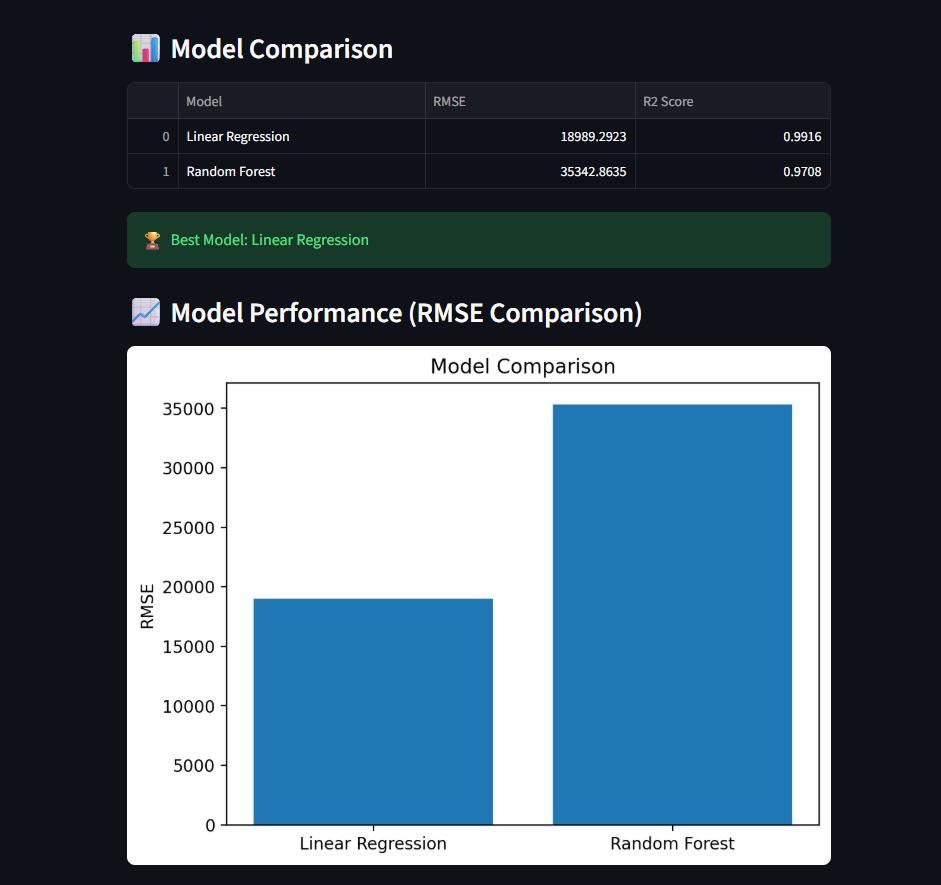
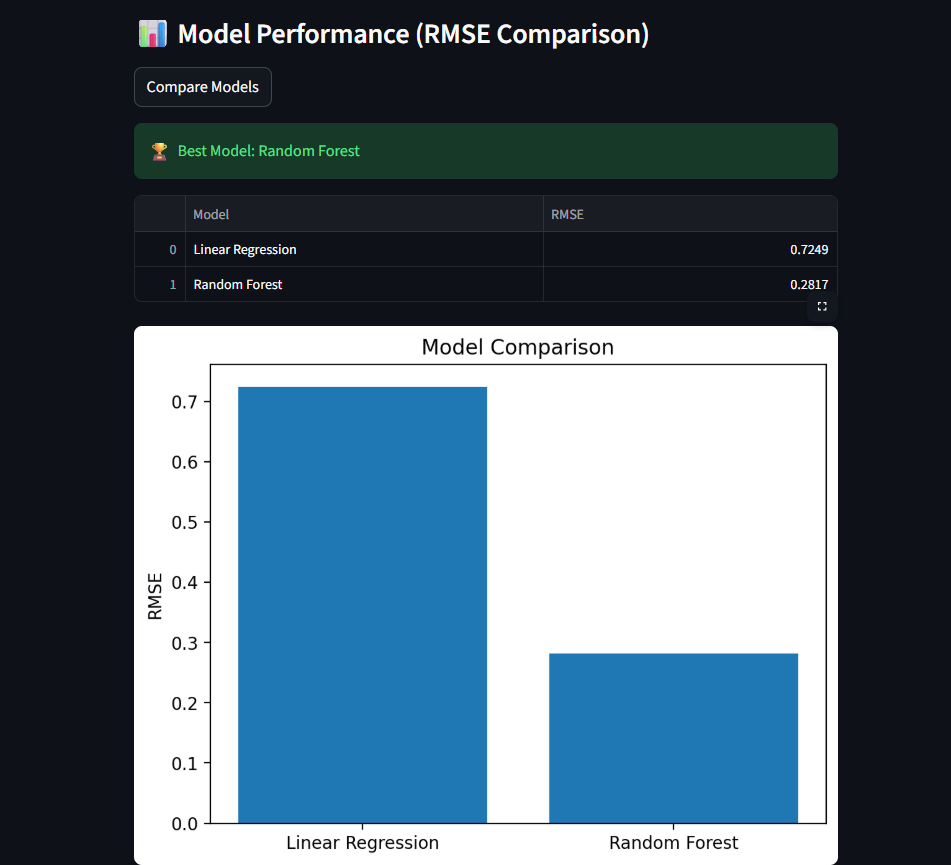
Final update: dataset, models, UI, README

diff --git a/README.md b/README.md
@@ -1,11 +1,9 @@
 # 🏠 House Price Prediction with Model Comparison
 
-## 📌 Overview
-This project predicts house prices using Machine Learning models and compares their performance.
-
-Initially, Linear Regression was used. Later, the project was upgraded by adding Random Forest and implementing a full comparison system with visualization.
+An interactive Machine Learning web application that predicts house prices and compares model performance using Linear Regression and Random Forest.
 
 ---
+
 
 ## 🚀 Features
 
@@ -34,6 +32,21 @@ Initially, Linear Regression was used. Later, the project was upgraded by adding
 - Uses multiple decision trees
 
 ---
+## 📊 Dataset
+
+* Based on a multi-feature housing dataset (California Housing style)
+* Contains features such as:
+
+  * Median Income (MedInc)
+  * House Age (HouseAge)
+  * Average Rooms (AveRooms)
+  * Average Bedrooms (AveBedrms)
+  * Population
+  * Average Occupancy (AveOccup)
+  * Latitude & Longitude
+* Target variable: **House Price**
+
+---
 
 ## 📊 Evaluation Metrics
 
@@ -45,7 +58,7 @@ Initially, Linear Regression was used. Later, the project was upgraded by adding
 ## 📸 Application Screenshots
 
 ### 🔹 Main Interface
-![UI](assets/ui.png)
+![UI](assets/app_ui.png)
 
 ### 🔹 Prediction Output
 ![Prediction](assets/prediction.png)
@@ -54,7 +67,8 @@ Initially, Linear Regression was used. Later, the project was upgraded by adding
 ![Comparison](assets/comparison.png)
 
 ### 🔹 Data Visualization (Area vs Price)
-![Area vs Price](assets/area_vs_price.png)
+![Features vs Price](assets/features_vs_price.png)
+![Features](assets/features.png)
 
 ---
 
@@ -77,29 +91,37 @@ house-price-prediction/
 │   └── utils.py
 │
 ├── assets/
-│   ├── ui.png
+│   ├── app_ui.png
 │   ├── prediction.png
 │   ├── comparison.png
-│   └── area_vs_price.png
+│   └── features_vs_price.png and features.png
 │
 ├── app.py
 ├── requirements.txt
 └── README.md
 ```
-
 ---
+## ⚙️ Setup & Run
 
-## ⚙️ How to Run the Project
+### Install dependencies
 
-### 1️⃣ Install Dependencies
+```
+pip install -r requirements.txt
+```
 
----
+### Train models
 
-### 2️⃣ Train Models
+```
+cd src
+python train_model.py
+```
 
----
+### Run app
 
-### 3️⃣ Run the Application
+```
+cd ..
+streamlit run app.py
+```
 
 ---
 
@@ -113,13 +135,13 @@ house-price-prediction/
 
 ---
 
+
 ## 🔮 Future Improvements
 
-- Add more features to dataset
-- Use advanced models (XGBoost)
-- Hyperparameter tuning
-- Deploy application online (Streamlit Cloud / Render)
-
+* Add user input sliders for all features
+* Hyperparameter tuning
+* Feature importance visualization
+* Deploy using cloud platforms
 ---
 
 